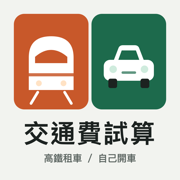
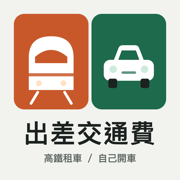
更新外縣市交通費試算

Changed region(s): [[0.1389, 0.6667, 0.8611, 0.8056]]

diff --git a/index.html b/index.html
@@ -9,7 +9,7 @@
 <meta property="og:url" content="https://kafutw.github.io/travel-quote/">
 <meta property="og:title" content="卡夫卡外縣市出差交通費試算">
 <meta property="og:description" content="外縣市拍攝的交通費：高鐵租車跟自己開車各要多少（需要密碼）">
-<meta property="og:image" content="https://kafutw.github.io/travel-quote/og.png">
+<meta property="og:image" content="https://kafutw.github.io/travel-quote/og.png?v=2">
 <meta property="og:image:width" content="1200">
 <meta property="og:image:height" content="1200">
 <meta name="twitter:card" content="summary">
@@ -40,7 +40,7 @@ button:disabled{opacity:.6}
   <div class="err" id="err" role="alert"></div>
 </form>
 <script>
[2 lines of base64/hex data omitted]
 const u8=b=>Uint8Array.from(atob(b),c=>c.charCodeAt(0));
 async function open(key){
   const pt=await crypto.subtle.decrypt({name:"AES-GCM",iv:u8(IV)},key,u8(CT));
